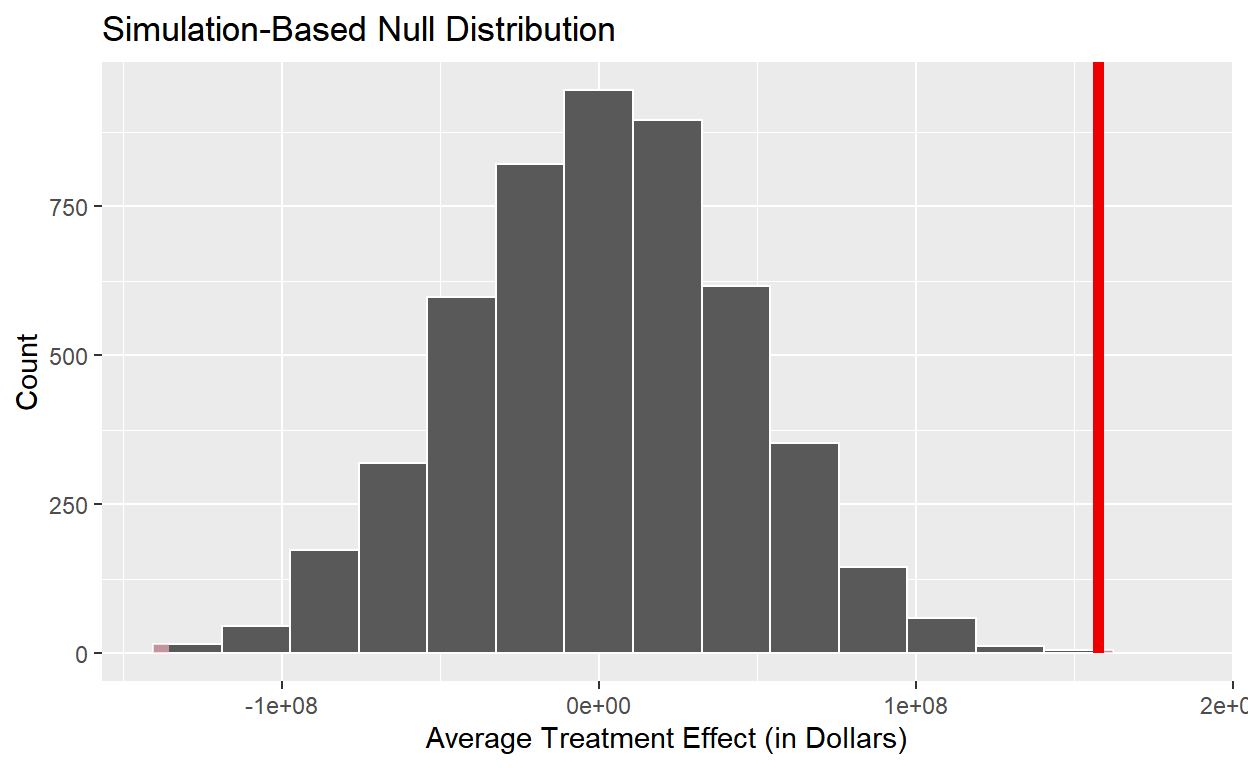
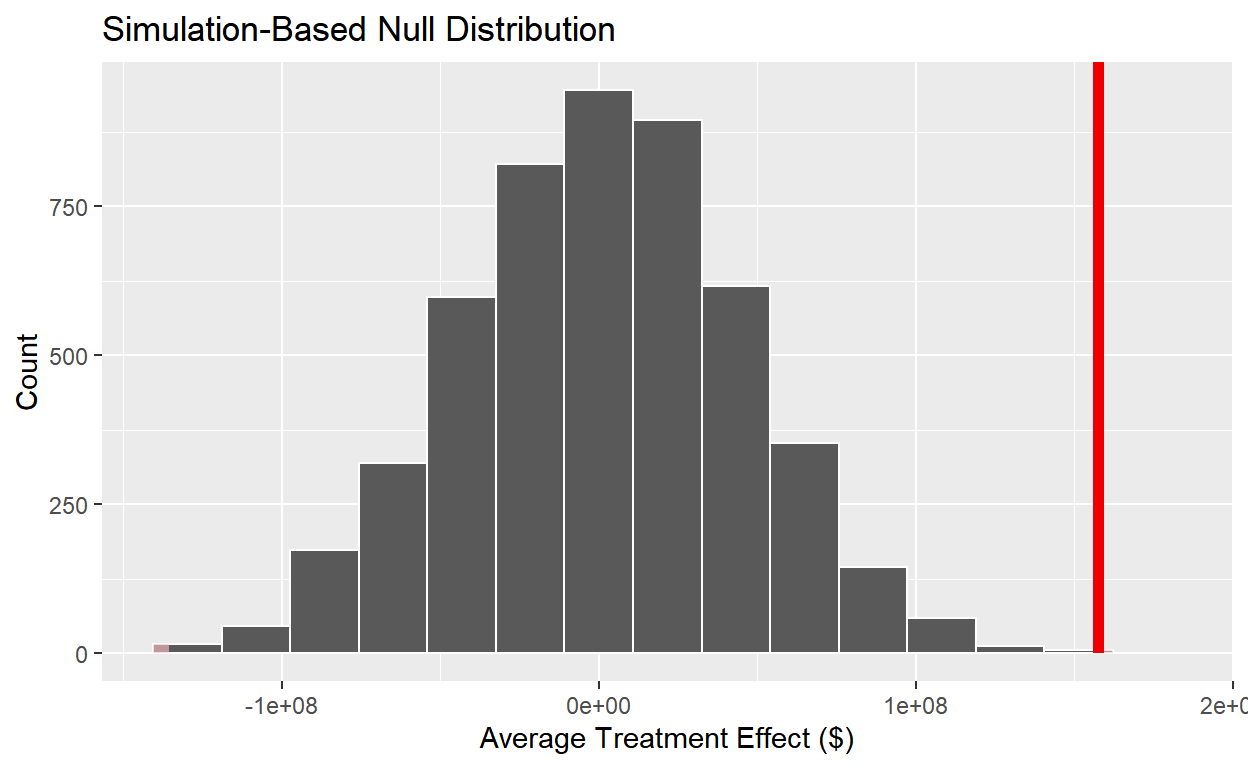
xxix

Changed region(s): [[0.3438, 0.9375, 0.7188, 1.0]]

diff --git a/index.html b/index.html
@@ -1772,7 +1772,7 @@ code span.wa { color: #5e5e5e; font-style: italic; } /* Warning */
 <span></span>
 <span><span class='fu'><a href='https://infer.tidymodels.org/reference/visualize.html'>visualize</a></span><span class='op'>(</span><span class='va'>ATEtest</span><span class='op'>)</span><span class='op'>+</span></span>
 <span>  <span class='fu'><a href='https://infer.tidymodels.org/reference/shade_p_value.html'>shade_p_value</a></span><span class='op'>(</span>obs_stat <span class='op'>=</span> <span class='va'>observed_ate</span>, direction <span class='op'>=</span> <span class='st'>"both"</span><span class='op'>)</span><span class='op'>+</span></span>
-<span>  <span class='fu'><a href='https://ggplot2.tidyverse.org/reference/labs.html'>labs</a></span><span class='op'>(</span>x <span class='op'>=</span> <span class='st'>"Average Treatment Effect (in Dollars)"</span>,</span>
+<span>  <span class='fu'><a href='https://ggplot2.tidyverse.org/reference/labs.html'>labs</a></span><span class='op'>(</span>x <span class='op'>=</span> <span class='st'>"Average Treatment Effect ($)"</span>,</span>
 <span>       y <span class='op'>=</span> <span class='st'>"Count"</span><span class='op'>)</span></span></code></pre>
 </div>
 <img src="index_files/figure-html5/unnamed-chunk-8-1.png" width="624" />
